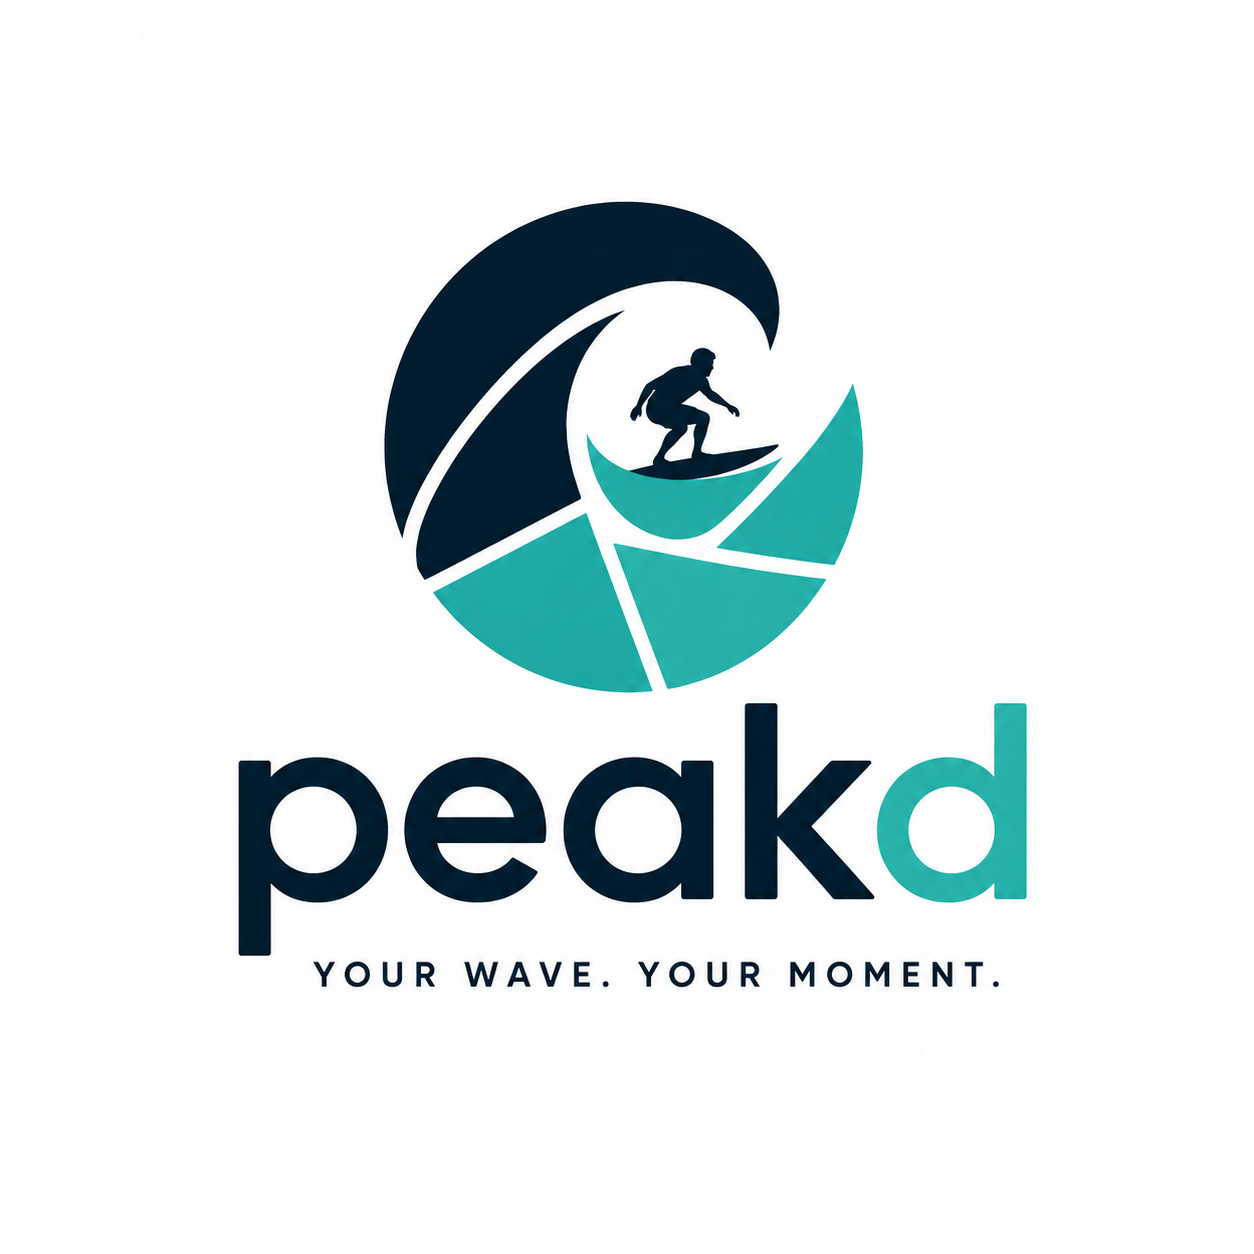
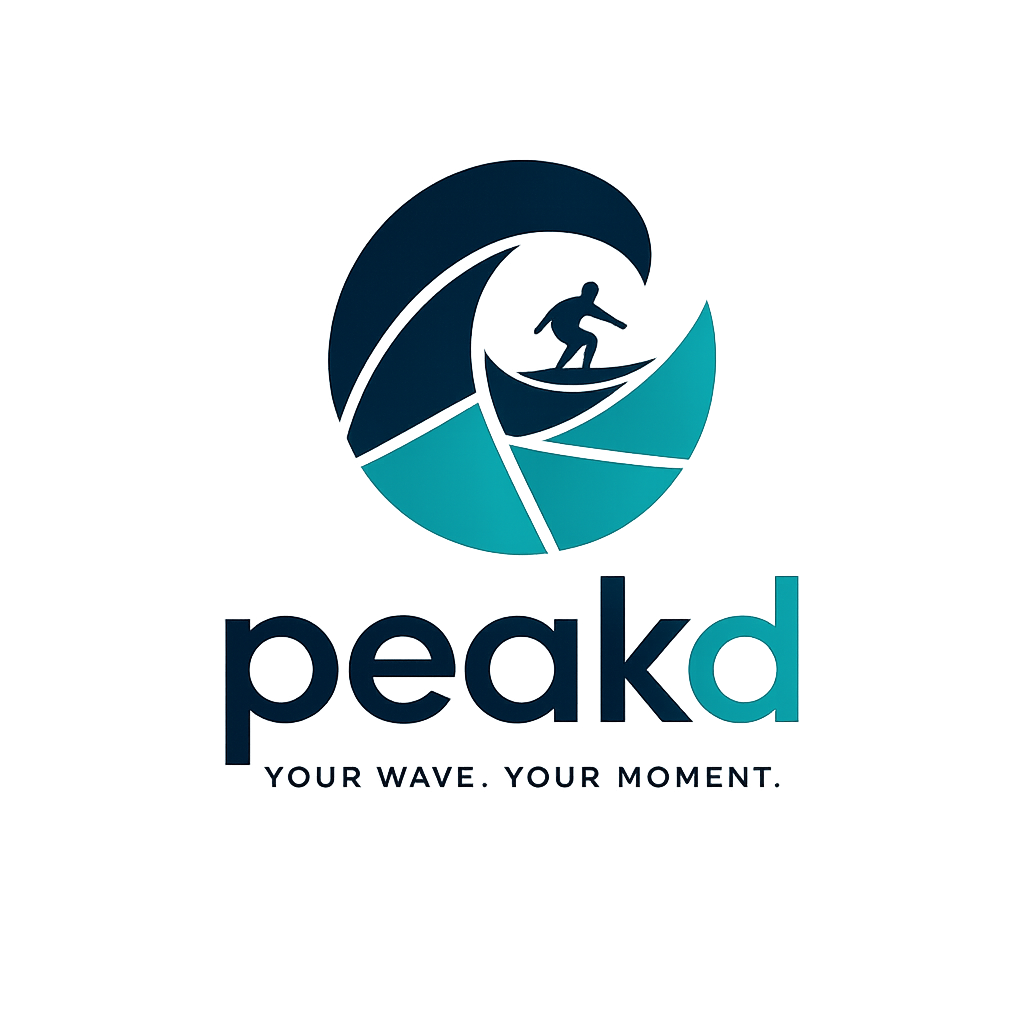
chore: commit changes in worktree-1

diff --git a/src/config/video.config.ts b/src/config/video.config.ts
@@ -16,6 +16,10 @@ export interface VideoConfigValues {
   snapshotScaleShortSec: number;
   snapshotScaleLongSec: number;
   vp9Crf: number;
+  /** libvpx-vp9 speed (0 = slowest / best compression efficiency, 5 = fastest). */
+  vp9CpuUsed: number;
+  /** Opus audio bitrate in kb/s when source has audio */
+  opusAudioBitrateK: number;
   presignedUrlExpirySeconds: number;
   allowedMimeTypes: string[];
 }
@@ -37,7 +41,18 @@ export const videoConfig = registerAs(
     snapshotScaleLongSec: Number(
       process.env.SNAPSHOT_SCALE_LONG_SEC ?? 120,
     ),
-    vp9Crf: Number(process.env.VP9_CRF ?? 32),
+    vp9Crf: Math.min(
+      50,
+      Math.max(10, Number(process.env.VP9_CRF ?? 37)),
+    ),
+    vp9CpuUsed: Math.min(
+      5,
+      Math.max(0, Math.floor(Number(process.env.VP9_CPU_USED ?? 0))),
+    ),
+    opusAudioBitrateK: Math.min(
+      256,
+      Math.max(24, Number(process.env.OPUS_AUDIO_BITRATE_K ?? 64)),
+    ),
     presignedUrlExpirySeconds: Number(
       process.env.PRESIGNED_URL_EXPIRY_SECONDS ?? 3600,
     ),

diff --git a/src/video/video-processing.service.ts b/src/video/video-processing.service.ts
@@ -99,7 +99,14 @@ export class VideoProcessingService {
         '-map',
         '[outv]',
         ...(hasAudio
-          ? ['-map', '0:a:0', '-c:a', 'libopus', '-b:a', '96k']
+          ? [
+              '-map',
+              '0:a:0',
+              '-c:a',
+              'libopus',
+              '-b:a',
+              `${videoCfg.opusAudioBitrateK}k`,
+            ]
           : ['-an']),
         '-c:v',
         'libvpx-vp9',
@@ -110,7 +117,7 @@ export class VideoProcessingService {
         '-row-mt',
         '1',
         '-cpu-used',
-        '1',
+        String(videoCfg.vp9CpuUsed),
         processedPath,
       ];
 